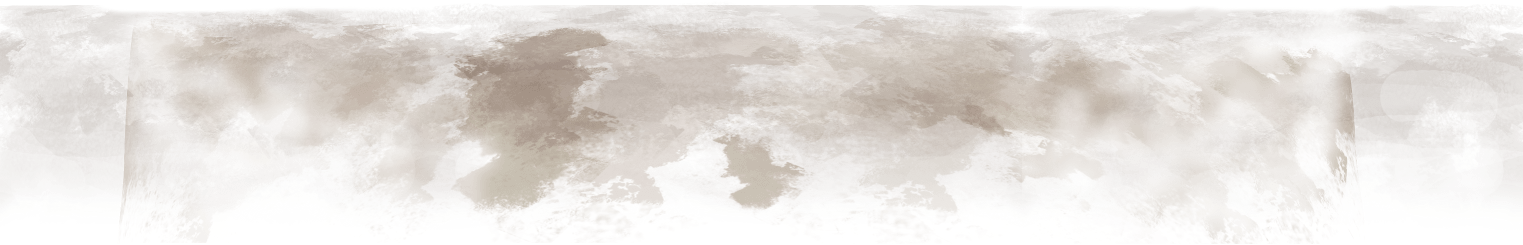
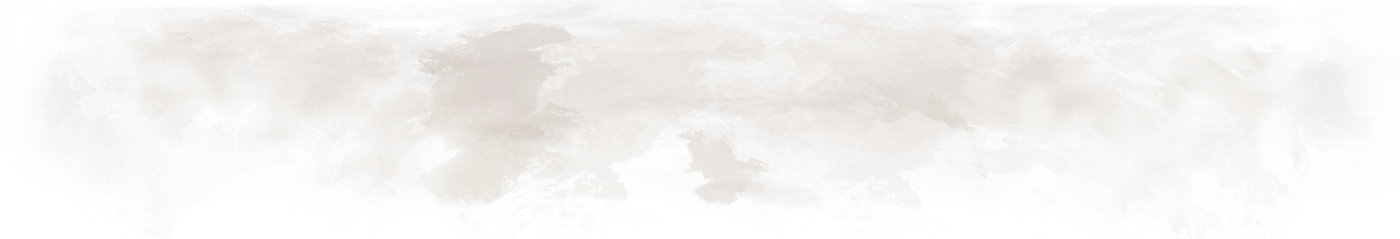
fixes header's sand

diff --git a/app/styles/header.less b/app/styles/header.less
@@ -64,13 +64,12 @@ header{
     background: url('../images/header/crops.png') center center no-repeat;
 
   }
-  .landscape{
+  .sand{
     position: absolute;
     top: 144px;
     width: 100%;
-    height: 244px;
-    background: url('../images/header/sand.png') center center repeat-x, url('../images/body/noise.png') repeat;
-    // background: url('../images/header/landscape.png') center center no-repeat, url('../images/body/noise.png') repeat;
+    height: 239px;
+    background: url('../images/header/sand.png') center center no-repeat, url('../images/body/noise.png') repeat;
     background-color: @bodyBackground;
   }
   .board{

diff --git a/app/styles/main.css b/app/styles/main.css
@@ -7342,12 +7342,12 @@ header .crops {
   background: url('../images/header/crops.png') center center no-repeat;
 }
 
-header .landscape {
+header .sand {
   position: absolute;
   top: 144px;
   width: 100%;
-  height: 244px;
-  background: url('../images/header/sand.png') center center repeat-x, url('../images/body/noise.png') repeat;
+  height: 239px;
+  background: url('../images/header/sand.png') center center no-repeat, url('../images/body/noise.png') repeat;
   background-color: #e0c39d;
 }
 

diff --git a/app/index.html b/app/index.html
@@ -38,7 +38,7 @@
           <div class="cloud-4"></div>
           <div class="cloud-5"></div>
         </div>
-        <div class="landscape"></div>
+        <div class="sand"></div>
         <div class="crops"></div>
         <div class="container front">
           <div class="board"></div>
